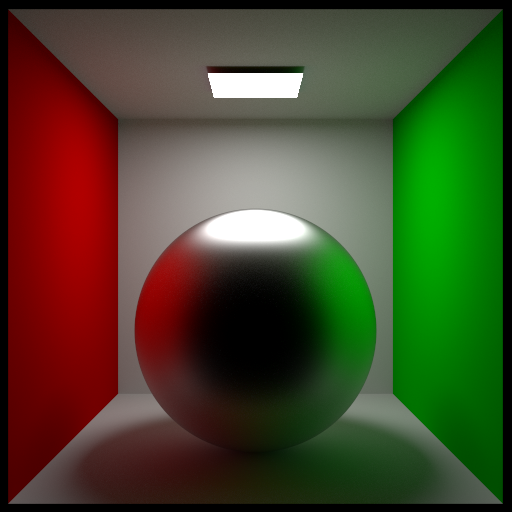
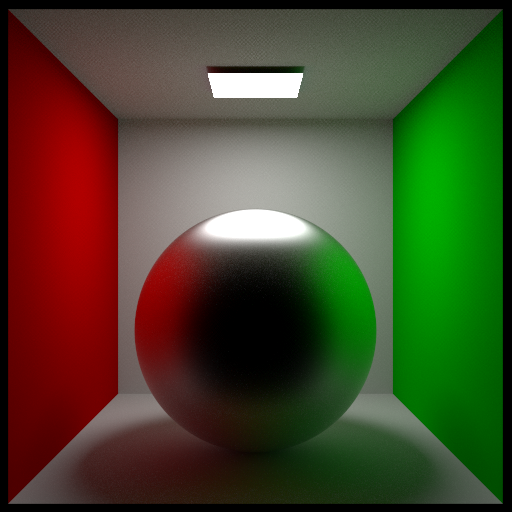
Upscale intensity omni light. New energyFix for Phong.

Changed region(s): [[0.4062, 0.4062, 0.5938, 0.5]]

diff --git a/tests_lights.cpp b/tests_lights.cpp
@@ -29,7 +29,7 @@ extern GLFWwindow* g_window;
 using namespace TEST_UTILS;
 
 
-namespace LGHT_TESTS
+namespace LIGHT_TESTS
 {
   bool test_200_spot()
   {
@@ -3540,7 +3540,7 @@ namespace LGHT_TESTS
       lightNode.attribute(L"distribution").set_value(L"uniform");
 
       auto intensityNode = lightNode.append_child(L"intensity");
-      intensityNode.append_child(L"color").append_attribute(L"val").set_value(L"25 12.5 25");
+      intensityNode.append_child(L"color").append_attribute(L"val").set_value(L"78.5 39.2 78.5");
 
 			VERIFY_XML(lightNode);
     }
@@ -3557,7 +3557,7 @@ namespace LGHT_TESTS
       lightNode.attribute(L"distribution").set_value(L"uniform");
 
       auto intensityNode = lightNode.append_child(L"intensity");
-      intensityNode.append_child(L"color").append_attribute(L"val").set_value(L"12.5 25 12.5");
+      intensityNode.append_child(L"color").append_attribute(L"val").set_value(L"39.2 78.5 39.2");
 
 			VERIFY_XML(lightNode);
     }

diff --git a/tests1.cpp b/tests1.cpp
@@ -1919,7 +1919,7 @@ void run_all_mtl_tests(int a_start)
 
 void run_all_lgt_tests(int a_start)
 {
-  using namespace LGHT_TESTS;
+  using namespace LIGHT_TESTS;
   TestFunc tests[] = { &test_200_spot,
                        &test_201_sphere,
                        &test_202_sky_color,
@@ -2049,7 +2049,7 @@ void run_all_alg_tests(int a_start)
 
 void run_all_mictofacet_torrance_sparrow()
 {
-  using namespace LGHT_TESTS;
+  using namespace LIGHT_TESTS;
   using namespace MTL_TESTS;
   
   TestFunc tests[] = {

diff --git a/test_lights4.cpp b/test_lights4.cpp
@@ -27,7 +27,7 @@
 extern GLFWwindow* g_window;
 using namespace TEST_UTILS;
 
-namespace LGHT_TESTS
+namespace LIGHT_TESTS
 {
   using LiteMath::float4;
   using LiteMath::float3;

diff --git a/tests.h b/tests.h
@@ -314,7 +314,7 @@ namespace MTL_TESTS
   bool test_180_trggx_aniso_rot();
 }
 
-namespace LGHT_TESTS
+namespace LIGHT_TESTS
 {
   bool test_200_spot();
   bool test_201_sphere();

diff --git a/tests_lights2.cpp b/tests_lights2.cpp
@@ -27,7 +27,7 @@
 extern GLFWwindow* g_window;
 using namespace TEST_UTILS;
 
-namespace LGHT_TESTS
+namespace LIGHT_TESTS
 {
   const int TEST_SCREEN_SIZE = 512;
 

diff --git a/test_lights3.cpp b/test_lights3.cpp
@@ -27,7 +27,7 @@
 extern GLFWwindow* g_window;
 using namespace TEST_UTILS;
 
-namespace LGHT_TESTS
+namespace LIGHT_TESTS
 {
   const int TESTS_IMG_SIZE = 512;
 
